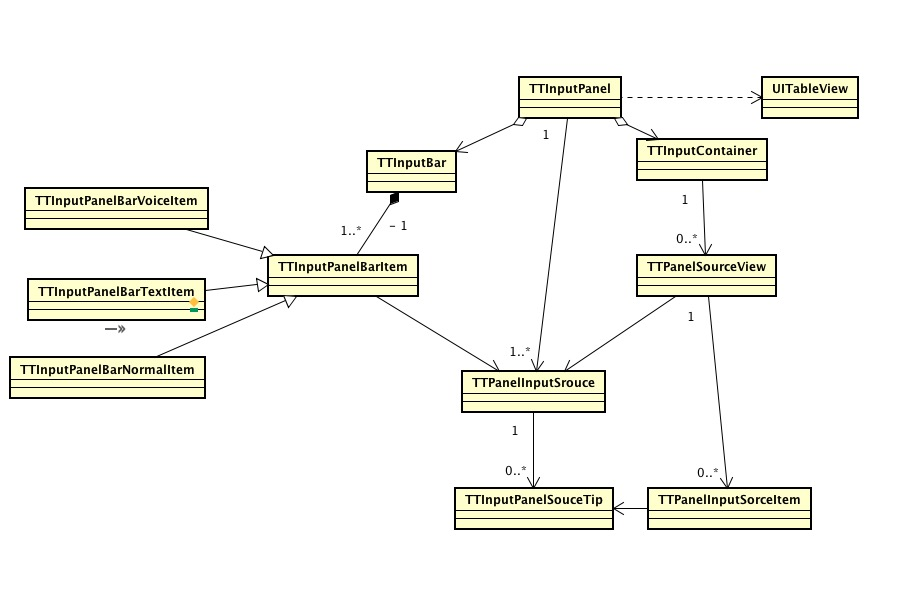
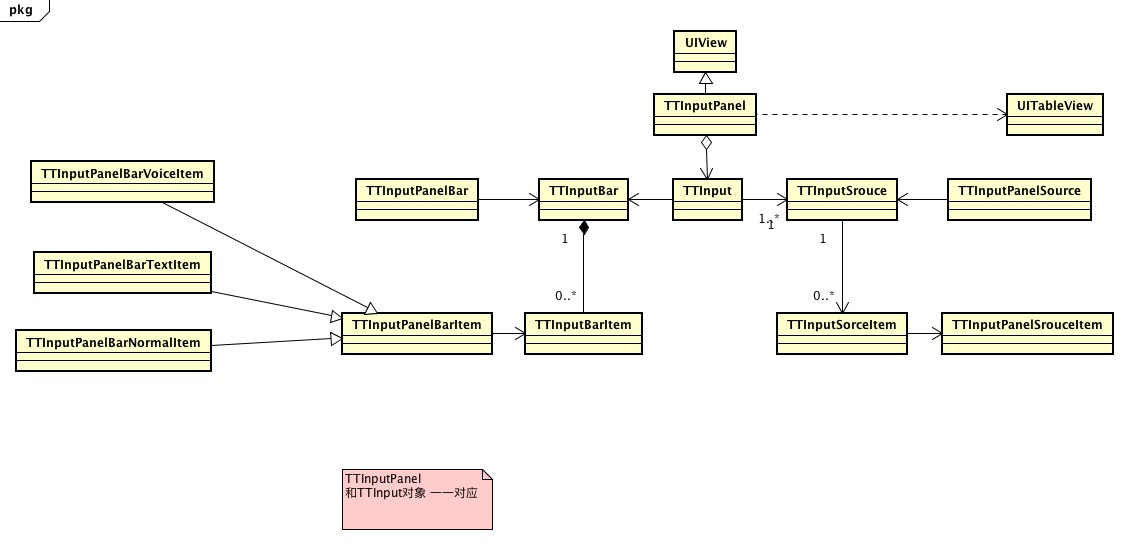
更换设计图

diff --git a/TTInputPanel/TTInputPanel/TTInputPanel.m b/TTInputPanel/TTInputPanel/TTInputPanel.m
@@ -8,6 +8,31 @@
 
 #import "TTInputPanel.h"
 
+@interface TTInputPanel ()
+
+@property (nonatomic, strong) TTInput * input;
+
+@end
+
 @implementation TTInputPanel
+
+- (instancetype)initWithInput:(TTInput *)input {
+    if (self = [super init]) {
+        self.input = input;
+    }
+    return self;
+}
+
+- (void)initialUI {
+    
+}
+
+- (void)initialBar {
+    
+}
+
+- (void)initialContainerView {
+    
+}
 
 @end

diff --git a/TTInputPanel/TTInputPanel/TTInputPanel.h b/TTInputPanel/TTInputPanel/TTInputPanel.h
@@ -10,4 +10,6 @@
 
 @interface TTInputPanel : UIView
 
+- (instancetype)initWithInput:(TTInput *)input;
+
 @end
